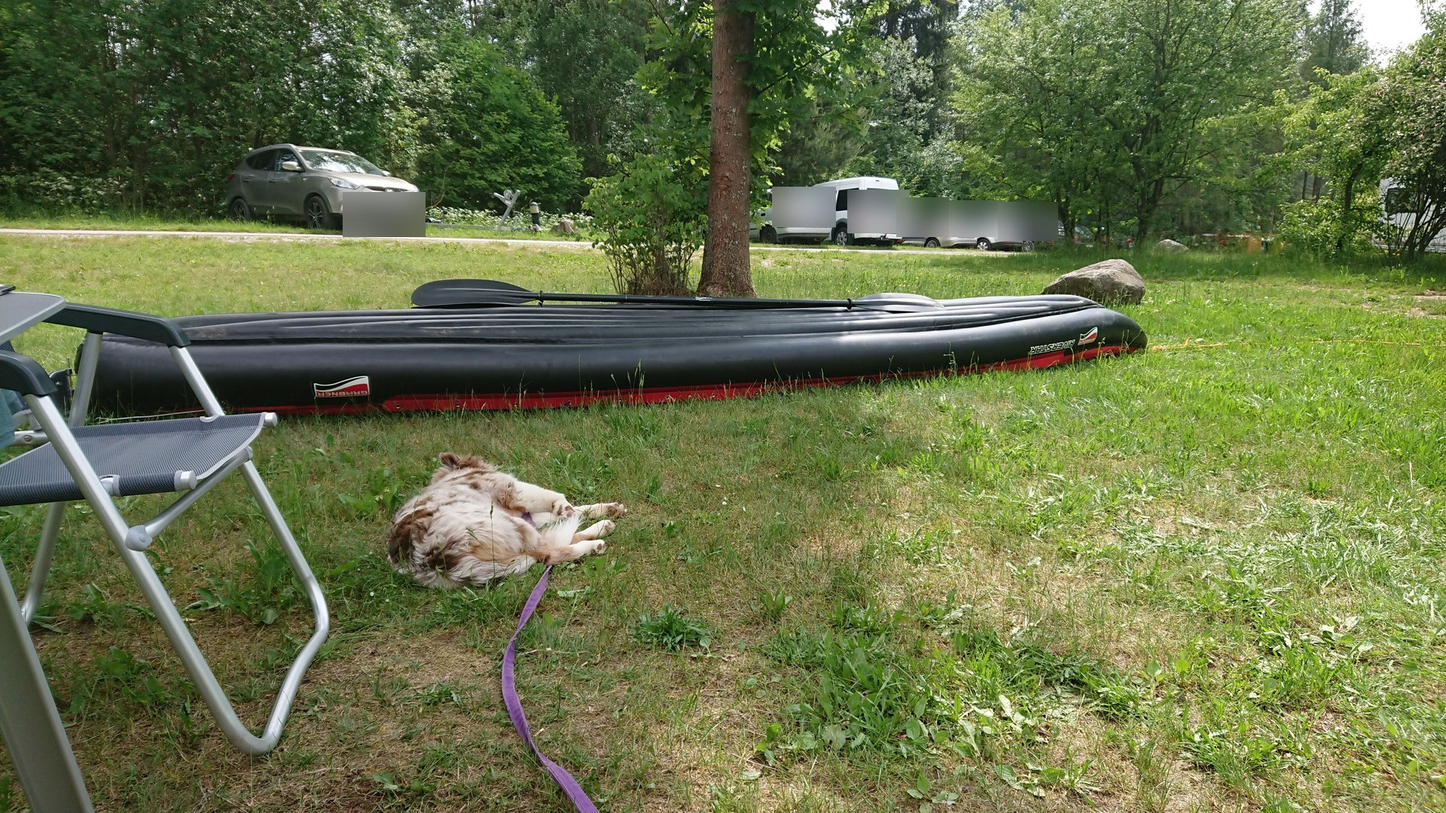
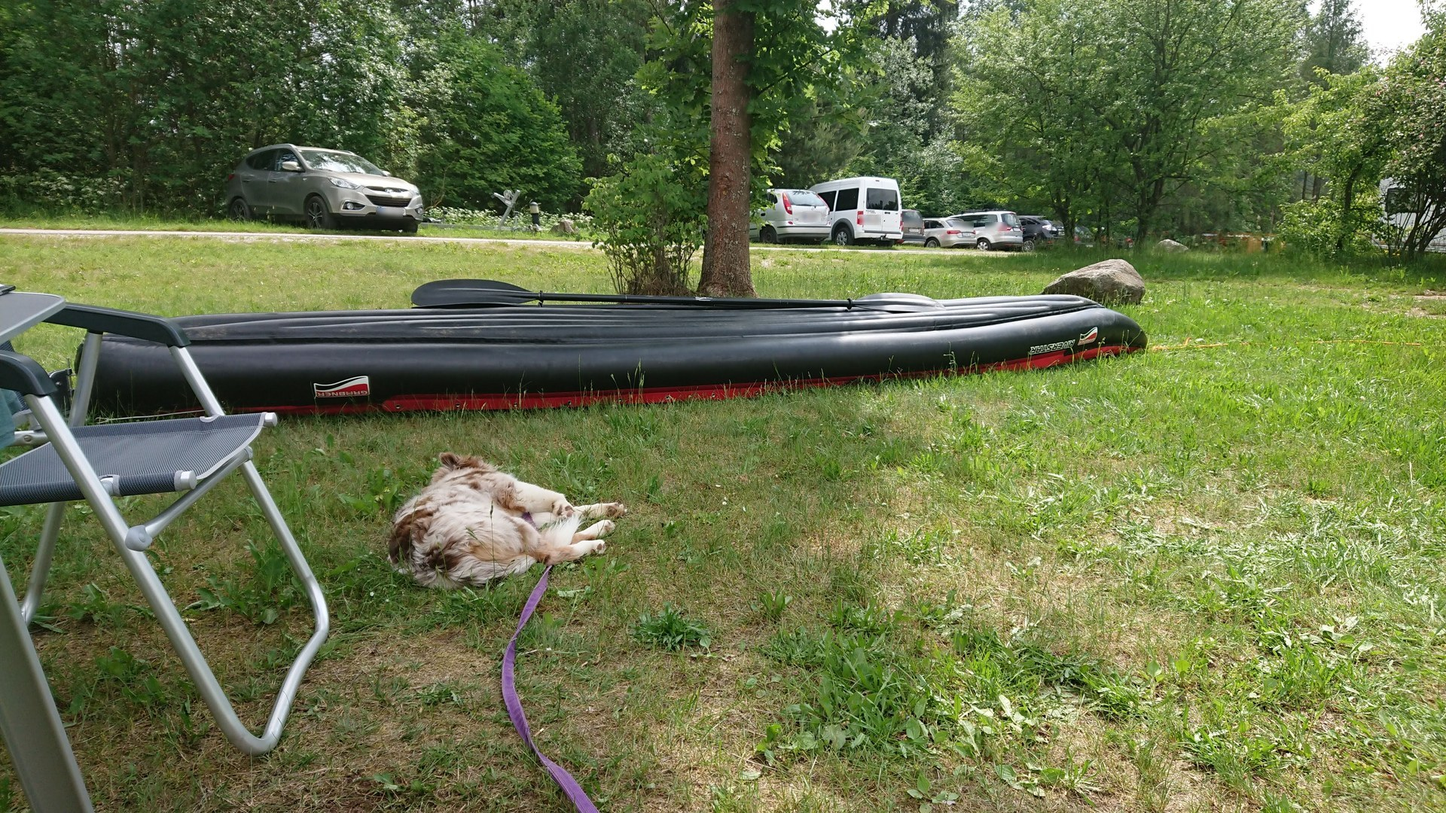
Refine kayak gallery plate redaction

Changed region(s): [[0.5312, 0.2139, 0.75, 0.3056], [0.2188, 0.2139, 0.3125, 0.3056]]

diff --git a/tools/build-kayak-gallery-images.py b/tools/build-kayak-gallery-images.py
@@ -10,10 +10,11 @@ DESTINATION = ROOT / "assets" / "riverstar" / "gallery"
 HEIF_CONVERTER = Path(r"C:\Users\helmu\.cache\codex-runtimes\codex-primary-runtime\dependencies\native\libheif\libheif\bin\heif-convert.exe")
 REDACTIONS = {
     # All visible vehicle license plates in the camping image. Coordinates refer
-    # to its 1920 × 1080 web derivative; rectangles intentionally exceed plates.
+    # to its 1920 × 1080 web derivative and fit each plate closely.
     "kajak-11.jpg": [
-        (455, 255, 565, 315), (1025, 248, 1110, 302), (1125, 252, 1208, 310),
-        (1190, 262, 1260, 315), (1260, 266, 1335, 315), (1325, 268, 1405, 320),
+        (499, 276, 535, 291), (1060, 282, 1090, 295), (1141, 285, 1170, 299),
+        (1200, 290, 1225, 302), (1265, 294, 1293, 306), (1308, 295, 1337, 307),
+        (1362, 298, 1384, 310),
     ],
 }
 
@@ -36,8 +37,14 @@ def anonymize_license_plates(output: Path) -> None:
         image = original.convert("RGB")
         for rectangle in rectangles:
             crop = image.crop(rectangle)
-            blur = crop.filter(ImageFilter.GaussianBlur(max(crop.size) // 5))
-            image.paste(blur, rectangle)
+            # Multiple close blurs make a plate unreadable. A feathered mask
+            # prevents a hard-edged anonymization field from distracting from
+            # the documentary image.
+            blur = crop.filter(ImageFilter.GaussianBlur(3)).filter(ImageFilter.GaussianBlur(3))
+            mask = Image.new("L", crop.size, 0)
+            ImageDraw.Draw(mask).rectangle((0, 0, crop.width - 1, crop.height - 1), fill=255)
+            mask = mask.filter(ImageFilter.GaussianBlur(1))
+            image.paste(blur, rectangle, mask)
         image.save(output, quality=88, optimize=True, progressive=True)
 
 
